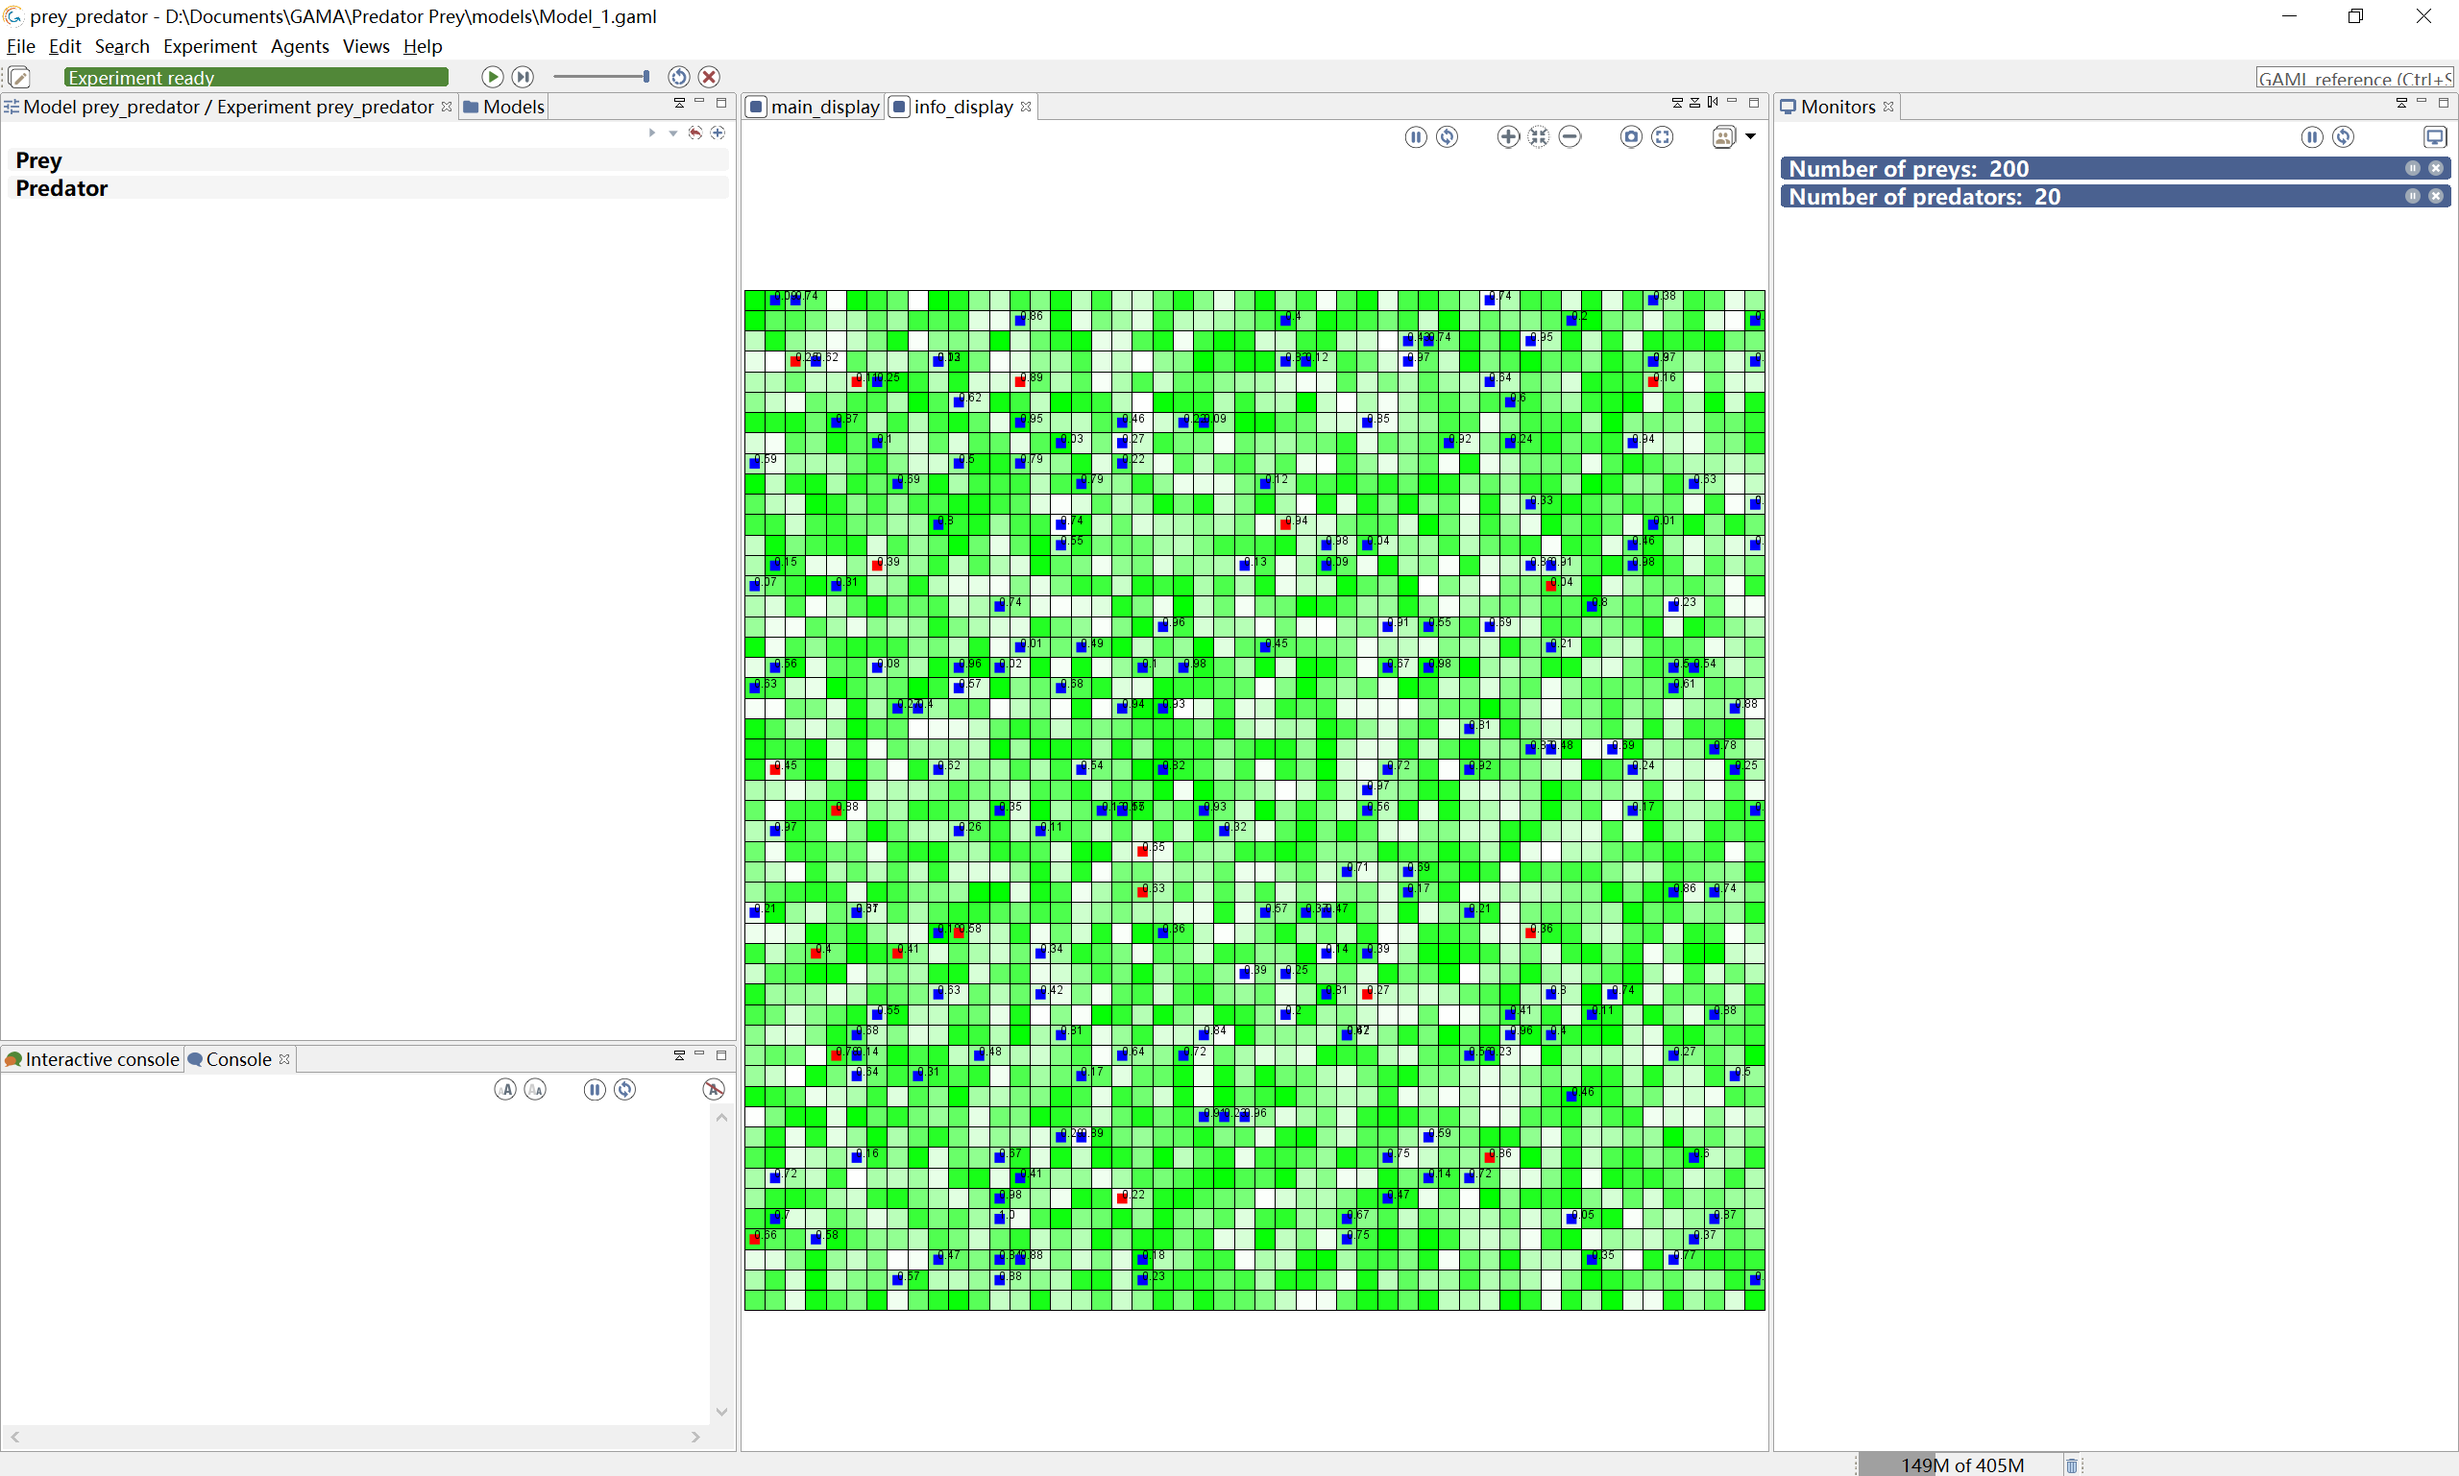
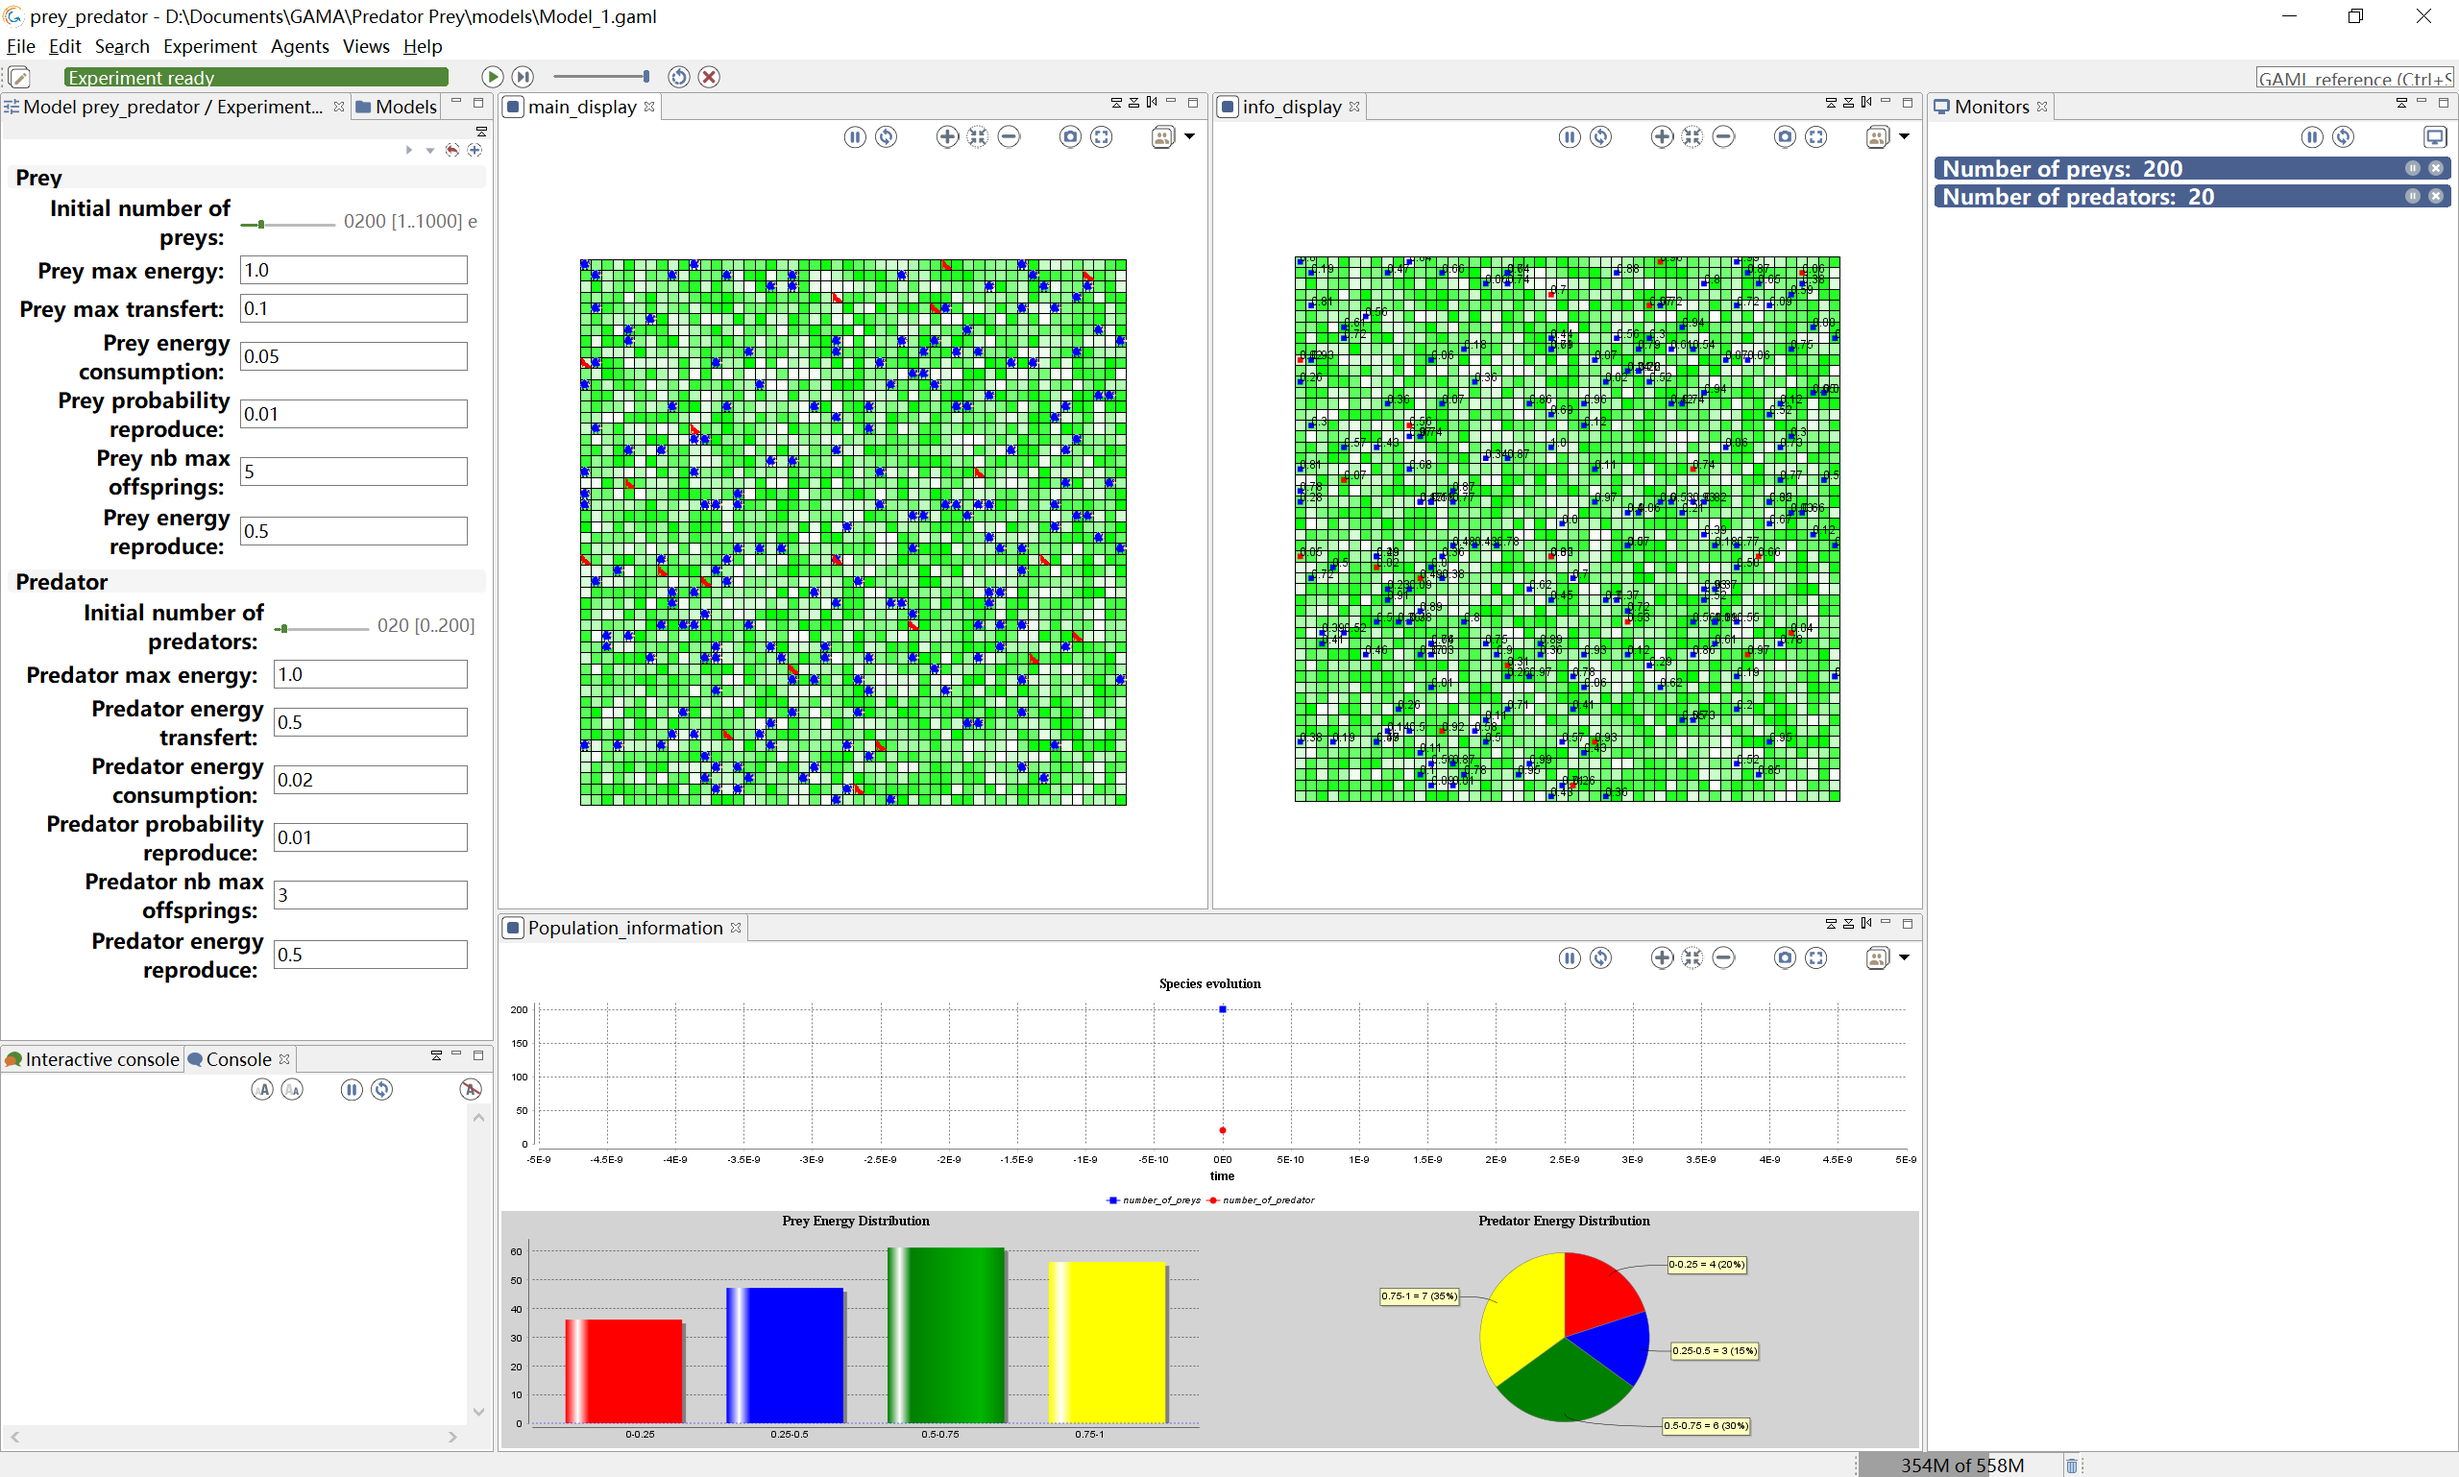
GitBook: [master] 3 pages and 10 assets modified

diff --git a/gama-mo-xing-de-jian-li/wang-ge-fang-zhen-mo-xing/step5-zi-ding-yi-xian-shi-fang-shi.md b/gama-mo-xing-de-jian-li/wang-ge-fang-zhen-mo-xing/step5-zi-ding-yi-xian-shi-fang-shi.md
@@ -56,7 +56,7 @@ species prey parent: generic_species {
 
 > TIPS：为了方便管理，GAMA的依赖文件都存储在includes文件夹
 
-![4.4.1 &#x98DF;&#x8349;&#x52A8;&#x7269;&#x56FE;&#x6807;](../../.gitbook/assets/image%20%2815%29.png)
+![4.4.1 &#x98DF;&#x8349;&#x52A8;&#x7269;&#x56FE;&#x6807;](../../.gitbook/assets/image%20%2816%29.png)
 
 食草动物图标如上，为了代码生效，需将食草动物图标下载（[下载链接](https://gama-platform.github.io/resources/images/tutorials/predator_prey_sheep.png)）到项目文件夹的 `includes/data/`  文件夹中，并将图片名称修改为`predator_prey_sheep.png`
 
@@ -71,7 +71,7 @@ species predator parent: generic_species {
 }
 ```
 
-![4.4.2 &#x98DF;&#x8089;&#x52A8;&#x7269;&#x56FE;&#x6807;](../../.gitbook/assets/image%20%2817%29.png)
+![4.4.2 &#x98DF;&#x8089;&#x52A8;&#x7269;&#x56FE;&#x6807;](../../.gitbook/assets/image%20%2818%29.png)
 
 同样的，将食肉动物图标下载（[下载链接](https://gama-platform.github.io/resources/images/tutorials/predator_prey_wolf.png)）到项目文件夹的 `includes/data/`  文件夹中，并将图片名称修改为`predator_prey_wolf.png`
 
@@ -349,7 +349,7 @@ experiment prey_predator type: gui {
 
 开始模拟，模拟界面将会出现两个窗口：main_\_display 和 info\_display:_
 
-![4.4.3 main\_display](../../.gitbook/assets/image%20%2818%29.png)
+![4.4.3 main\_display](../../.gitbook/assets/image%20%2820%29.png)
 
-![4.4.4 info\_display](../../.gitbook/assets/image%20%2813%29.png)
+![4.4.4 info\_display](../../.gitbook/assets/image%20%2814%29.png)
 

diff --git a/gama-mo-xing-de-jian-li/wang-ge-fang-zhen-mo-xing/step6-geng-jia-fu-za-de-hang-wei-optional.md b/gama-mo-xing-de-jian-li/wang-ge-fang-zhen-mo-xing/step6-geng-jia-fu-za-de-hang-wei-optional.md
@@ -1,2 +1,28 @@
 # Step6: 更加复杂的行为（Optional）
 
+现在一个简单的捕食者仿真模型已经基本搭建完成，我们还可以优化一下，实现更加复杂的行为。
+
+![](../../.gitbook/assets/image%20%2819%29.png)
+
+### 通过图像控制网格分布
+
+现在的模型中，草地网格的初始分布时随机的，为了让其更加符合自然状态，我们通过图像的数值来控制网格中食物量的多少，使得草地的分布和图像一致。
+
+原始图像（[下载链接](https://gama-platform.github.io/resources/images/tutorials/predator_prey_raster_map.png)）如下，原始图像大小为50x50，和草地网格的大小一致
+
+![4.6.1 &#x8349;&#x5730;&#x5206;&#x5E03;&#x56FE;&#x50CF;](../../.gitbook/assets/image%20%2812%29.png)
+
+```text
+global {
+	...
+	//读取图像文件
+	file map_init <- image_file("../includes/data/raster_map.png");
+	//初始化
+	init {
+		...
+	}
+	
+```
+
+### 向附近的食物移动
+
